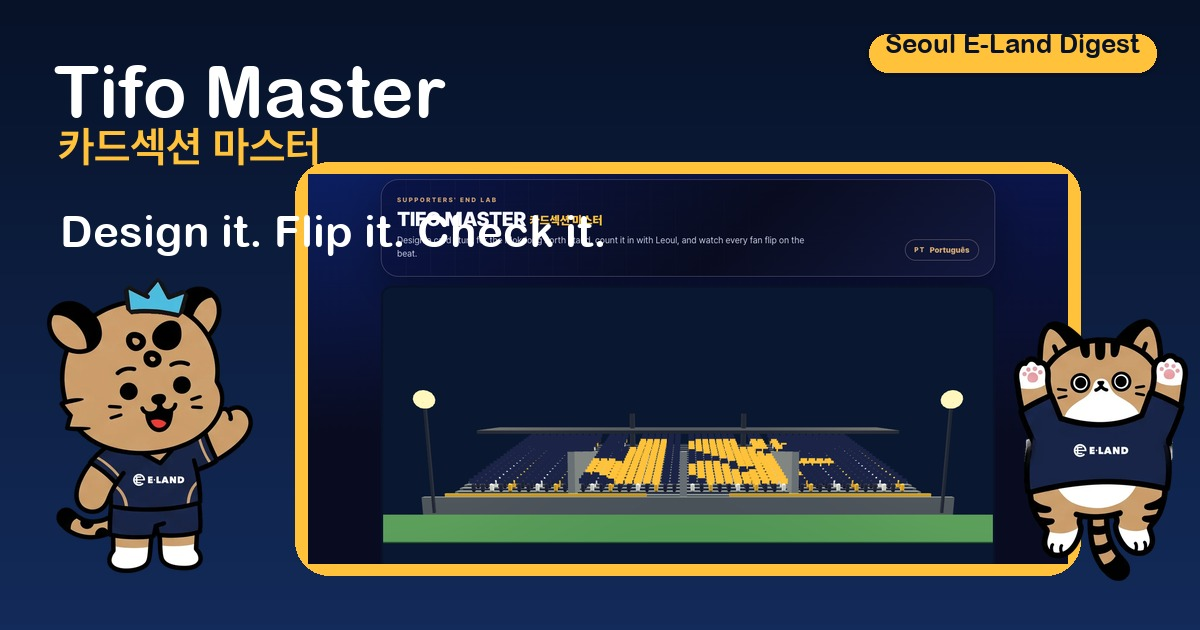
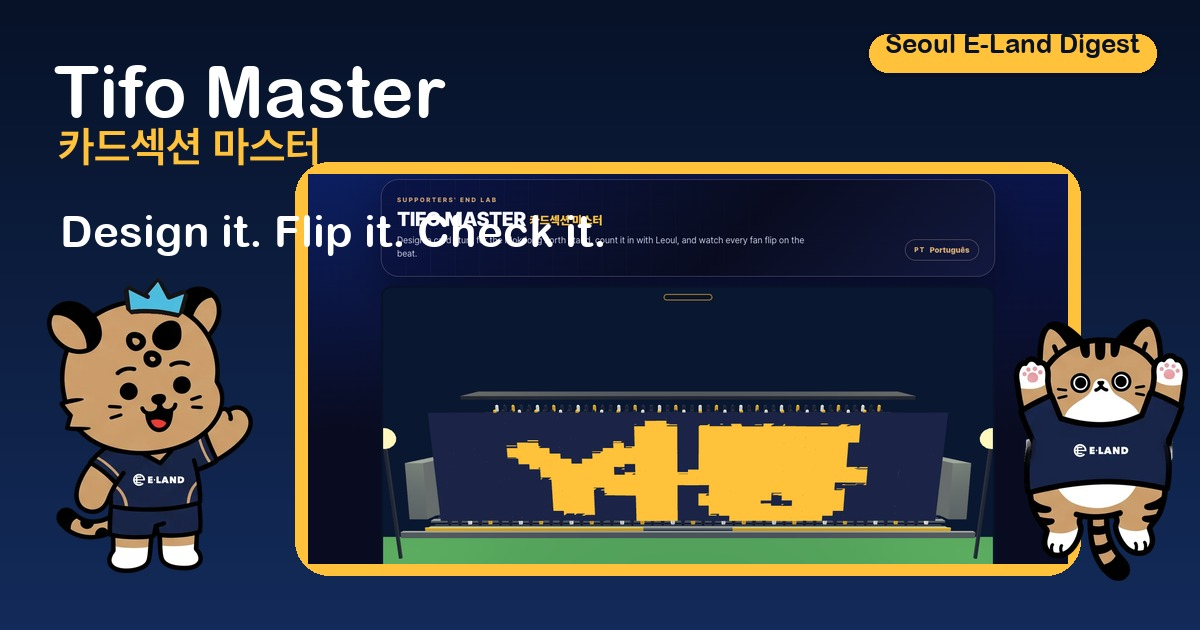
Make Tifo Master mosaics readable
Copilot-Session: 30f9cc71-a23c-44b1-848c-ede5d2d6a253

Changed region(s): [[0.3083, 0.6032, 0.8325, 0.9048], [0.3083, 0.6635, 0.3392, 0.7238], [0.555, 0.4524, 0.5858, 0.4825]]

diff --git a/site/src/tifo/render.ts b/site/src/tifo/render.ts
@@ -39,11 +39,15 @@ export class TifoRenderer {
   constructor(private canvas: HTMLCanvasElement, private opts: TifoRendererOptions) {}
 
   private sx(col: number): number {
-    return (col - (TIFO_COLS - 1) / 2) * 0.8;
+    return (col - (TIFO_COLS - 1) / 2) * 0.82;
   }
 
   private sz(row: number): number {
-    return -row * 0.7;
+    return -row * 0.6;
+  }
+
+  private sy(row: number): number {
+    return row * 0.42;
   }
 
   async init(): Promise<void> {
@@ -54,7 +58,7 @@ export class TifoRenderer {
     this.renderer.outputColorSpace = THREE.SRGBColorSpace;
     this.scene = new THREE.Scene();
     this.scene.background = new THREE.Color("#0a1730");
-    this.scene.fog = new THREE.Fog("#0a1730", 55, 105);
+    this.scene.fog = new THREE.Fog("#0a1730", 80, 150);
     this.camera = new THREE.PerspectiveCamera(42, 1, 0.1, 140);
     this.dummy = new THREE.Object3D();
     this.raycaster = new THREE.Raycaster();
@@ -81,13 +85,13 @@ export class TifoRenderer {
     const concrete = new THREE.MeshStandardMaterial({ color: "#66707c", roughness: 0.78 });
     const navy = new THREE.MeshStandardMaterial({ color: "#17234c", roughness: 0.7 });
     const gold = new THREE.MeshStandardMaterial({ color: "#ffc23a", emissive: "#392500", roughness: 0.5 });
-    const pitch = new THREE.MeshStandardMaterial({ color: "#286b3e", roughness: 0.9 });
-    add(new THREE.BoxGeometry(54, 0.08, 7), pitch, 0, -1.56, 5.1);
+    const pitch = new THREE.MeshStandardMaterial({ color: "#2b7544", roughness: 0.9 });
+    add(new THREE.BoxGeometry(58, 0.08, 7), pitch, 0, -0.55, 4.8);
     for (let r = 0; r < TIFO_ROWS; r++) {
       const z = this.sz(r);
-      const y = r * 0.18;
-      add(new THREE.BoxGeometry(41.2, 0.16, 0.64), concrete, 0, y - 0.18, z + 0.1);
-      add(new THREE.BoxGeometry(40.4, 0.08, 0.18), navy, 0, y, z - 0.2);
+      const y = this.sy(r);
+      add(new THREE.BoxGeometry(42, 0.16, 0.54), concrete, 0, y - 0.32, z - 0.18);
+      add(new THREE.BoxGeometry(41.2, 0.08, 0.16), navy, 0, y - 0.14, z - 0.36);
     }
     add(new THREE.BoxGeometry(44.5, 1.5, 0.35), concrete, 0, -0.8, 1.4);
     for (const [x, text] of [[-12, "SEOUL E-LAND FC"], [12, "레울파크"]] as const) {
@@ -95,22 +99,14 @@ export class TifoRenderer {
       const board = add(new THREE.PlaneGeometry(16.3, 0.88), new THREE.MeshBasicMaterial({ map: this.boardTexture(text), toneMapped: false }), x, -0.33, 1.085);
       board.rotation.x = 0;
     }
-    const aisleMat = new THREE.MeshStandardMaterial({ color: "#828b96", roughness: 0.9 });
-    for (const col of [11, 23, 35]) {
-      const x = this.sx(col);
-      add(new THREE.BoxGeometry(0.6, 4.0, 14.3), aisleMat, x, 1.1, -6.6, -0.08);
-    }
     const pillar = new THREE.MeshStandardMaterial({ color: "#253047", roughness: 0.65 });
-    for (const col of [15.5, 31.5]) {
-      const x = this.sx(col);
-      add(new THREE.CylinderGeometry(0.28, 0.34, 7.8, 12), pillar, x, 3.2, -11.0);
-    }
-    add(new THREE.BoxGeometry(45, 0.35, 4.8), pillar, 0, 5.2, -10.1, 0.05);
+    for (const x of [this.sx(-2), this.sx(TIFO_COLS + 1)]) add(new THREE.BoxGeometry(1.4, 4.4, 12.6), concrete, x, 2.6, -5.2, -0.08);
+    add(new THREE.BoxGeometry(46, 0.35, 4.2), pillar, 0, this.sy(TIFO_ROWS - 1) + 1.45, this.sz(TIFO_ROWS - 1) - 2.6, 0.05);
     for (const x of [-20, 20]) {
-      const pole = add(new THREE.CylinderGeometry(0.12, 0.12, 9, 10), pillar, x, 3.6, 3.4);
-      add(new THREE.SphereGeometry(0.7, 12, 8), new THREE.MeshBasicMaterial({ color: "#fff7bd" }), x, 7.9, 3.4);
+      const pole =       add(new THREE.CylinderGeometry(0.12, 0.12, 9, 10), pillar, x, 3.6, 5.4);
+      add(new THREE.SphereGeometry(0.7, 12, 8), new THREE.MeshBasicMaterial({ color: "#fff7bd" }), x, 7.9, 5.4);
       const flood = new THREE.PointLight("#fff7bd", 70, 72);
-      flood.position.set(x, 7.9, 3.4);
+      flood.position.set(x, 7.9, 5.4);
       this.scene.add(flood);
       void pole;
     }
@@ -148,18 +144,18 @@ export class TifoRenderer {
     this.cardToSeat = [...this.usable];
     this.usable.forEach((idx, i) => this.seatToCard.set(idx, i));
     const n = this.usable.length;
-    const fanGeo = new THREE.CapsuleGeometry(0.17, 0.42, 3, 8);
+    const fanGeo = new THREE.CapsuleGeometry(0.16, 0.42, 3, 8);
     const fanMat = new THREE.MeshStandardMaterial({ roughness: 0.72 });
     this.fans = new THREE.InstancedMesh(fanGeo, fanMat, n);
-    this.cards = new THREE.InstancedMesh(new THREE.PlaneGeometry(0.66, 0.48), new THREE.MeshBasicMaterial({ side: THREE.DoubleSide, toneMapped: false }), n);
+    this.cards = new THREE.InstancedMesh(new THREE.PlaneGeometry(0.82, 0.62), new THREE.MeshBasicMaterial({ side: THREE.DoubleSide, toneMapped: false, fog: false }), n);
     const shirt = ["#1b2446", "#1b2446", "#1b2446", "#ffc23a", "#ffffff"];
     const c = new THREE.Color();
     for (let i = 0; i < n; i++) {
       const idx = this.usable[i], col = idx % TIFO_COLS, row = Math.floor(idx / TIFO_COLS);
       const x = this.sx(col);
       const z = this.sz(row);
-      const y = row * 0.18 + 0.48;
-      this.dummy.position.set(x, y, z - 0.08);
+      const y = this.sy(row) + 0.3;
+      this.dummy.position.set(x, y, z - 0.18);
       this.dummy.rotation.set(0, 0, 0);
       this.dummy.scale.set(1, 1, 1);
       this.dummy.updateMatrix();
@@ -195,7 +191,7 @@ export class TifoRenderer {
     const switchMs = SONG_STEP * 32 * 1000 / speed;
     const tick = () => {
       if (!this.active || this.disposed) return;
-      const t = (performance.now() - this.start) * speed / 1000;
+      const t = (performance.now() - this.start) * speed / 1000 - 1.85;
       this.applyCards(Math.min(1, t / 1.8));
       if (design.frames.length > 1 && performance.now() - this.start > switchMs * nextFrame) {
         this.frame = nextFrame % design.frames.length;
@@ -220,17 +216,17 @@ export class TifoRenderer {
   private applyCards(progress: number): void {
     const THREE = this.THREE;
     const color = new THREE.Color();
-    const now = progress * 2.6;
+    const now = Math.max(0, progress) * 2.6;
     for (let i = 0; i < this.cardToSeat.length; i++) {
       const idx = this.cardToSeat[i];
       const col = idx % TIFO_COLS, row = Math.floor(idx / TIFO_COLS);
       const x = this.sx(col);
-      const z = this.sz(row) - 0.08;
-      const y = row * 0.18 + 0.72 + Math.sin(performance.now() * 0.002 + i) * 0.015;
+      const y = this.sy(row) + 0.62 + Math.sin(performance.now() * 0.002 + i) * 0.012;
       const delay = (this.flipTiming(idx) - SONG_T0 - SONG_STEP * 12) * 0.45;
       const p = Math.max(0, Math.min(1, (now - delay) / 0.35));
       const eased = p * p * (3 - 2 * p);
-      this.dummy.position.set(x, y + eased * 0.34, z + eased * 0.03);
+      const z = this.sz(row) - 0.2 + eased * (0.58 - this.sz(row));
+      this.dummy.position.set(x, y + eased * 0.18, z);
       this.dummy.rotation.set(-Math.PI / 2 + eased * (Math.PI / 2), 0, 0);
       this.dummy.updateMatrix();
       this.cards.setMatrixAt(i, this.dummy.matrix);
@@ -239,6 +235,8 @@ export class TifoRenderer {
     }
     this.cards.instanceMatrix.needsUpdate = true;
     if (this.cards.instanceColor) this.cards.instanceColor.needsUpdate = true;
+    this.cards.computeBoundingSphere();
+    this.cards.computeBoundingBox();
   }
 
   private bindInput(): void {
@@ -258,7 +256,7 @@ export class TifoRenderer {
     this.canvas.addEventListener("click", (e) => {
       if (performance.now() - this.lastPickedAt > 120) this.pick(e as PointerEvent);
     });
-    this.canvas.addEventListener("wheel", (e) => { e.preventDefault(); this.dist = Math.max(22, Math.min(52, this.dist + e.deltaY * 0.02)); this.render(); }, { passive: false });
+    this.canvas.addEventListener("wheel", (e) => { e.preventDefault(); this.dist = Math.max(24, Math.min(90, this.dist + e.deltaY * 0.02)); this.render(); }, { passive: false });
   }
 
   private pick(e: PointerEvent): boolean {
@@ -292,7 +290,7 @@ export class TifoRenderer {
     const w = Math.max(1, Math.round(r.width));
     const h = Math.max(1, Math.round(r.height));
     this.camera.aspect = w / h;
-    this.camera.fov = w < h ? 106 : 52;
+    this.camera.fov = 42;
     this.camera.updateProjectionMatrix();
     this.renderer.setSize(w, h, false);
     this.render();
@@ -300,11 +298,20 @@ export class TifoRenderer {
 
   render(): void {
     if (this.disposed || !this.renderer) return;
-    const portrait = this.camera.aspect < 1;
-    const landscapePhone = this.camera.aspect > 1.6 && this.canvas.getBoundingClientRect().height < 520;
-    const d = portrait ? this.dist + 24 : landscapePhone ? this.dist - 18 : this.dist;
-    this.camera.position.set(Math.sin(this.yaw) * 13, portrait ? 7.2 + this.pitch * 7 : 6.7 + this.pitch * 7, 5.2 + d * 0.43);
-    this.camera.lookAt(0, 1.55 + this.pitch * 3, -6.3);
+    if (!this.dragging) {
+      this.yaw *= 0.92;
+      this.pitch *= 0.92;
+    }
+    const targetWidth = this.camera.aspect < 1 ? 0.95 : 0.92;
+    const worldWidth = (TIFO_COLS - 1) * 0.82 + 0.76;
+    const vFov = (this.camera.fov * Math.PI) / 180;
+    const hFov = 2 * Math.atan(Math.tan(vFov / 2) * this.camera.aspect);
+    const distance = worldWidth / (2 * targetWidth * Math.tan(hFov / 2));
+    const centerY = this.sy((TIFO_ROWS - 1) / 2) + 0.86;
+    const centerZ = 0.58;
+    const elevation = this.camera.aspect < 1 ? 0.16 : 0.24;
+    this.camera.position.set(Math.sin(this.yaw) * 8, centerY + distance * elevation + this.pitch * 4, centerZ + distance + this.dist * 0.04);
+    this.camera.lookAt(0, centerY + this.pitch * 2, centerZ);
     this.renderer.render(this.scene, this.camera);
   }
 
@@ -318,10 +325,21 @@ export class TifoRenderer {
     const THREE = this.THREE;
     const col = index % TIFO_COLS;
     const row = Math.floor(index / TIFO_COLS);
-    const v = new THREE.Vector3(this.sx(col), row * 0.18 + 1.08, this.sz(row) - 0.05);
+    const v = new THREE.Vector3(this.sx(col), this.sy(row) + 0.8, 0.58);
     v.project(this.camera);
     const r = this.canvas.getBoundingClientRect();
     return { x: r.left + (v.x + 1) * 0.5 * r.width, y: r.top + (1 - (v.y + 1) * 0.5) * r.height };
+  }
+
+  rayFirst(index: number): boolean {
+    const p = this.screenOf(index);
+    const cardIndex = this.seatToCard.get(index);
+    if (!p || cardIndex == null) return false;
+    const r = this.canvas.getBoundingClientRect();
+    this.pointer.set(((p.x - r.left) / r.width) * 2 - 1, -((p.y - r.top) / r.height) * 2 + 1);
+    this.raycaster.setFromCamera(this.pointer, this.camera);
+    const hit = this.raycaster.intersectObject(this.cards)[0];
+    return hit?.instanceId === cardIndex;
   }
 
   dispose(): void {

diff --git a/site/src/tifo/data.ts b/site/src/tifo/data.ts
@@ -34,11 +34,8 @@ export interface SeatCell {
   reason: "seat" | "aisle" | "pillar";
 }
 
-function unavailableReason(col: number, row: number): "seat" | "aisle" | "pillar" {
-  if (col === 11 || col === 23 || col === 35) return "aisle";
-  const p1 = col >= 15 && col <= 16 && row >= 13;
-  const p2 = col >= 31 && col <= 32 && row >= 13;
-  return p1 || p2 ? "pillar" : "seat";
+function unavailableReason(_col: number, _row: number): "seat" | "aisle" | "pillar" {
+  return "seat";
 }
 
 export const SEAT_MAP: SeatCell[] = Array.from({ length: TIFO_CELLS }, (_, index) => {

diff --git a/site/src/tifo/main.ts b/site/src/tifo/main.ts
@@ -375,6 +375,7 @@ export function mountTifoMaster(root: HTMLElement): void {
       openLevel: (id: string) => startCheck(id),
       errors: () => check?.errors ?? [],
       cardPoint: (index: number) => renderer?.screenOf(index) ?? null,
+      rayFirst: (index: number) => renderer?.rayFirst(index) ?? false,
       tap: (index: number) => { if (check) { tapCard(check, index, checkFrame); renderer?.setFrame(check.shown[checkFrame]); updateCheckHud(); } },
       skipTimers: () => { skipTimers = true; },
       share: () => encodeDesign(design),
